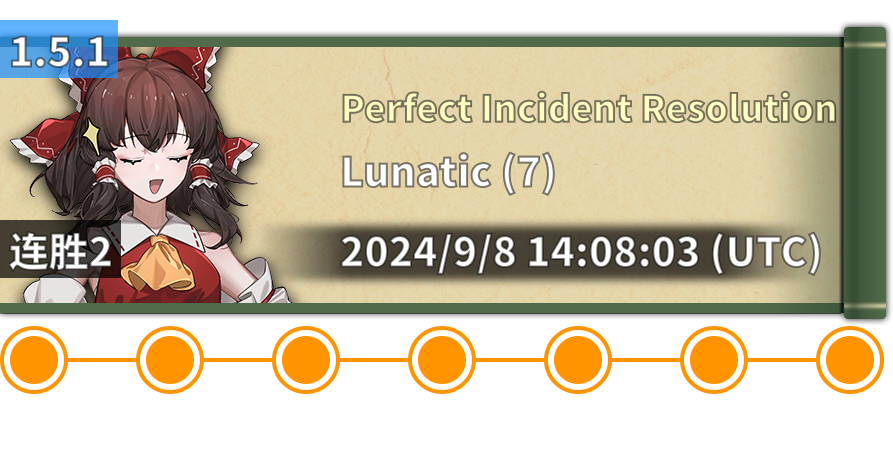
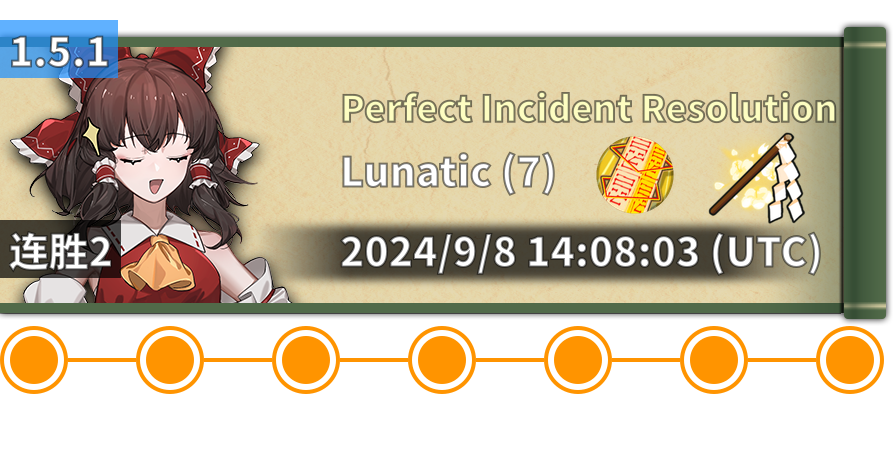
add images

Changed region(s): [[0.7861, 0.2687, 0.9071, 0.4776], [0.6652, 0.2687, 0.7559, 0.4776]]

diff --git a/ogp/src/Img.ts b/ogp/src/Img.ts
@@ -2,58 +2,175 @@ import sharp, { Sharp, ResizeOptions } from 'sharp';
 import Text from './Text';
 import { transparent } from './globals';
 
-class Img {
+type Args = Record<string, string>;
+
+class _Img {
   private readonly dir: string = './images';
   private readonly sharps: Record<string, Sharp> = {};
 
   private type: string;
   protected text: Text;
+  protected resizeOptions: ResizeOptions | undefined;
 
   constructor(type: string, text: Text) {
     this.type = type;
     this.text = text;
   }
 
-  async get(name: string, resizeOptions?: ResizeOptions | undefined) {
+  async get(args: Args) {
+    const { name } = args;
     const instance = this.getSharp(name);
-    if (resizeOptions) instance.resize(resizeOptions);
-    return await instance.resize().toBuffer();
+    if (this.resizeOptions) instance.resize(this.resizeOptions);
+    return await instance.toBuffer();
   }
 
   getSharp(name: string) {
     let instance = this.sharps[name];
     if (instance === undefined) {
-      instance = sharp(`${this.dir}/${this.type}/${name}.png`);
+      const path = `${this.dir}/${this.type}/${name}.png`;
+      instance = sharp(path);
       this.sharps[name] = instance;
     }
     return instance;
   }
+
+  set options(options: ResizeOptions) {
+    this.resizeOptions = options;
+  }
 }
 
-class Result extends Img {
-  constructor(text: Text) {
-    super('results', text);
-  }
-
-  async get(name: string) {
+abstract class Img extends _Img {
+  async get(args: Args) {
+    const name = this.getImageName(args);
     try {
-      const image = await super.get(name.replace(',', ''), { width: 448, height: 306 });
+      const image = await super.get({ name });
       return image;
     }
     catch(e: unknown) {
       if (e instanceof Error) {
         if (!e.message.startsWith('Input file is missing')) console.error(e);
       }
-      const top = 80;
-      const left = 10;
-      const options = { top, left, background: transparent };
-
-      const text = this.text.get(name.split(',')[0]);
-      return await sharp(text).extend(options).toBuffer();
+      const text = await this.getText(args);
+      return text;
     }
+  }
+
+  protected abstract getImageName(args: Args): string;
+
+  protected abstract getTextName(args: Args): string;
+
+  protected abstract getText(args: Args): Promise<Buffer>;
+}
+
+class Result extends Img {
+  constructor(text: Text) {
+    super('results', text);
+    this.options = { width: 448, height: 306 };
+  }
+
+  getImageName(args: Args) {
+    const { character, type } = args;
+    const name = character + type;
+    return name;
+  }
+
+  getTextName(args: Args) {
+    const { character } = args;
+    const name = character;
+    return name;
+  }
+
+  async getText(args: Args) {
+    const top = 80;
+    const left = 10;
+    const options = { top, left, background: transparent };
+
+    const name = this.getTextName(args);
+    const text = this.text.get(name);
+    return await sharp(text).extend(options).toBuffer();
+  }
+}
+
+abstract class _Icon extends Img {
+  private mods: Record<string, Buffer> = {};
+  private configs: Record<string, number> = {
+    width: 110,
+    height: 110
+  };
+
+  constructor(type: string, text: Text) {
+    super(type, text);
+    const { width, height } = this.configs;
+    this.options = { width, height };
+  }
+
+  abstract getImageName(args: Args): string;
+
+  getTextName(args: Args) {
+    const { type } = args;
+    const name = type;
+    return name;
+  }
+
+  async getText(args: Args) {
+    const { type } = args;
+    let buffer = this.mods[type];
+
+    if (buffer === undefined) {
+      const unknown = await this.get({ name: 'Mod' });
+      const mod = this.text.get('Mod');
+      const name = this.getTextName(args);
+      const text = this.text.get(name);
+      // const textResized = await sharp(text).toBuffer();
+
+      buffer = await sharp(unknown)
+        .composite([
+          {
+            input: mod,
+            top: 7,
+            left: 10
+          },
+          {
+            input: text,
+            top: 43,
+            left: 41
+          }
+        ])
+        .toBuffer();
+      this.mods[type] = buffer;
+    }
+    return buffer;
+  };
+}
+
+class Spellcard extends _Icon {
+  constructor(text: Text) {
+    super('spellcards', text);
+    this.options = { width: 110, height: 110 };
+  }
+
+  getImageName(args: Args) {
+    const { name, character, type } = args;
+    if (name !== undefined) return name;
+    else return character + type;
+  }
+}
+
+class Shining extends _Icon {
+  constructor(text: Text) {
+    super('exhibits', text);
+    this.options = { width: 110, height: 110 };
+  }
+
+  getImageName(args: Args) {
+    const { name, shining } = args;
+    if (name !== undefined) return name;
+    else return shining;
   }
 }
 
 export {
-  Result
+  Result,
+  Spellcard,
+  Shining
 };

diff --git a/ogp/modules/ogpGenerator.js b/ogp/modules/ogpGenerator.js
@@ -1,6 +1,6 @@
 import fs from 'fs';
 import { transparent, versions, characters } from '../src/globals';
-import { Result } from '../src/Img';
+import { Result, Spellcard, Shining } from '../src/Img';
 import Text from '../src/Text';
 import Requests from '../src/Requests';
 import Badge from '../src/Badge';
@@ -25,6 +25,8 @@ const generateOGP = async function () {
   const text = new Text();
 
   const res = new Result(text);
+  const sc = new Spellcard(text);
+  const sh = new Shining(text);
   const req = new Requests();
   const badge = new Badge(text);
 
@@ -42,16 +44,18 @@ const generateOGP = async function () {
     } =  payload;
 
     const filename = `${id}.png`;
-    // TODO: uncomment
-    // if (ogps[version].includes(filename)) {
-    //   console.log(`[SKIP]: ${id}`)
-    //   skipped++;
-    //   continue;
-    // }
+
+    if (ogps[version].includes(filename)) {
+      console.log(`[SKIP]: ${id}`)
+      skipped++;
+      continue;
+    }
 
     const dest = `${dir}/${version}/${filename}`;
 
-    const resultImage = await res.get([Character, resultTypes[Type]].join(','));
+    const resultImage = await res.get({ character: Character, type: resultTypes[Type] });
+    const spellcard = await sc.get({ character: Character, type: PlayerType });
+    const exhibit = await sh.get({ shining, type: PlayerType });
     const requests = req.get(Requests);
 
     const result = text.getResult(Type);
@@ -81,6 +85,16 @@ const generateOGP = async function () {
             input: resultImage,
             top,
             left: 0
+          },
+          {
+            input: spellcard,
+            top: top + 100,
+            left: 580
+          },
+          {
+            input: exhibit,
+            top: top + 100,
+            left: 700
           },
           {
             input: result,

diff --git a/ogp/src/Routes.ts b/ogp/src/Routes.ts
@@ -24,18 +24,9 @@ class Routes {
       const dir = `../docs/${version}/logs`;
       const logs = fs.readdirSync(dir);
 
-      // TODO: remove
-      let i = 0;
-
       for (const filename of logs) {
         const runData = require(`../${dir}/${filename}`);
         const id = filename.replace(/\.json$/, '');
-
-        // TODO: remove
-        // if (id !== '2024-10-23T06-18-54Z_PatchouliMod_B_XianzheShi_L6_TrueEnd') continue;
-
-        // TODO: remove
-        if (i++ < 5) continue;
 
         const { Name, Settings: { Character, PlayerType, Difficulty, Requests }, Result: { Type, Timestamp, Exhibits }, Description } = runData;
         const shining = Exhibits[0];
@@ -55,9 +46,6 @@ class Routes {
           Name, Character, PlayerType, Difficulty, Requests, shining, Type, Timestamp
         };
         routes.push({ route, payload });
-
-        // TODO: remove
-        break;
       }
     }
 
